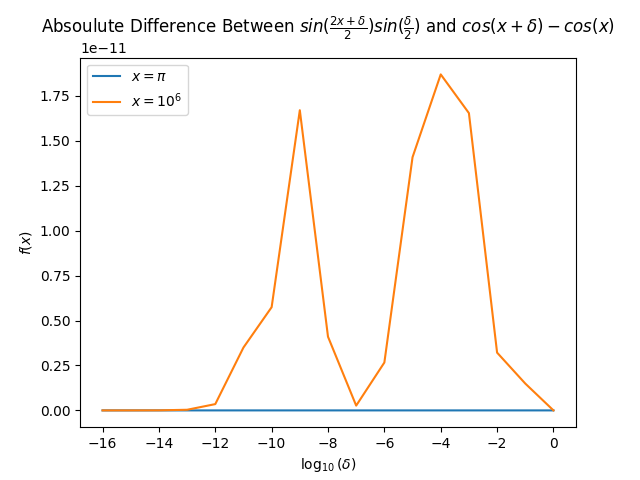
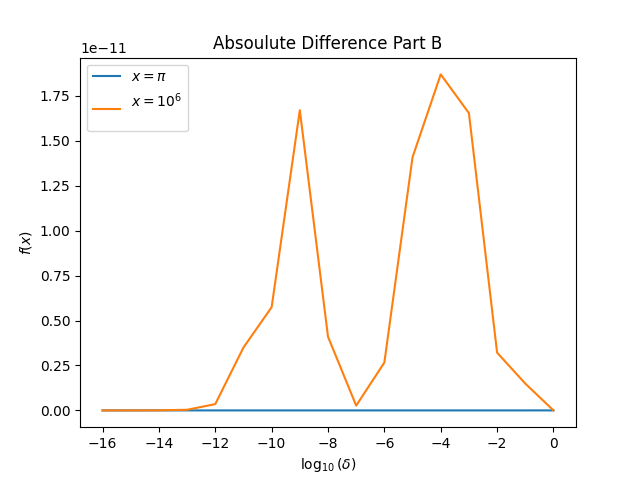
almost done

Changed region(s): [[0.0625, 0.0312, 0.9688, 0.125], [0.125, 0.1875, 0.1875, 0.25]]

diff --git a/Homework/homework1/Problem5.py b/Homework/homework1/Problem5.py
@@ -1,20 +1,29 @@
 import numpy as np
 import matplotlib.pyplot as plt
-
-
-def partB():
-    x1= np.pi
-    x2= 10**6
+    
+def graph(x1,x2):
     a = np.arange(16,-1,-1)
     d = 1/(10**a)
     fx1 = abs(-2*np.sin((2*x1 +d)/2)*(np.sin(d/2)) - (np.cos(x1+d) - np.cos(x1)))
     fx2 = abs(-2*np.sin((2*x2 +d)/2)*(np.sin(d/2)) - (np.cos(x2+d) - np.cos(x2)))
+    fx3 = abs(-d*np.sin(x1) - (np.cos(x1+d) - np.cos(x1)))
+    fx4 = abs(-d*np.sin(x2)- (np.cos(x2+d) - np.cos(x2)))
+    plt.figure(1)
     plt.plot(np.log10(d),fx1, label= r'$x = \pi$')
-    plt.plot(np.log10(d),fx2, label= r'$x= 10^6$')
+    plt.plot(np.log10(d),fx2, label= r'$x= 10^6$'"\n")
     plt.xlabel(r'$\log_{10}(\delta)$')
     plt.ylabel(r'$f(x)$')
-    plt.title(r'Absoulute Difference Between $sin(\frac{2x+\delta}{2})sin(\frac{\delta}{2})$ and $cos(x+\delta) - cos(x)  $')
+    plt.title("Absoulute Difference Part B")
     plt.legend()
     plt.savefig("Problem5.png")
+    plt.figure(2)
+    plt.plot(np.log10(d),fx3, label=r'$x = \pi$')
+    plt.plot(np.log10(d),fx4, label= r'$x= 10^6$')
+    plt.xlabel(r'$\log_{10}(\delta)$')
+    plt.ylabel(r'$f(x)$')
+    plt.title("Absoulute Difference Part C")
+    plt.legend()
+    plt.savefig("Problem5.2.png")
     
-partB()
+graph(np.pi,10**6)
+

diff --git a/Homework/homework1/Problem3.py b/Homework/homework1/Problem3.py
@@ -1,0 +1,13 @@
+import numpy as np
+import matplotlib.pyplot as plt
+
+def f(x):
+    return abs((np.sin(x)-17*x*np.sin(x)+3*np.cos(x)-9*(x**2)*np.cos(x)+(x**3)*np.sin(x)))/48
+xvals = np.linspace(-1,1,100)
+plt.plot(xvals,f(xvals))
+plt.savefig('Problem3')
+print(max(f(xvals)))
+
+def error():
+    return abs(np.cos(.5)*(1-1/2+1/8) -1 - 1/2 +1/8)
+print(error())
